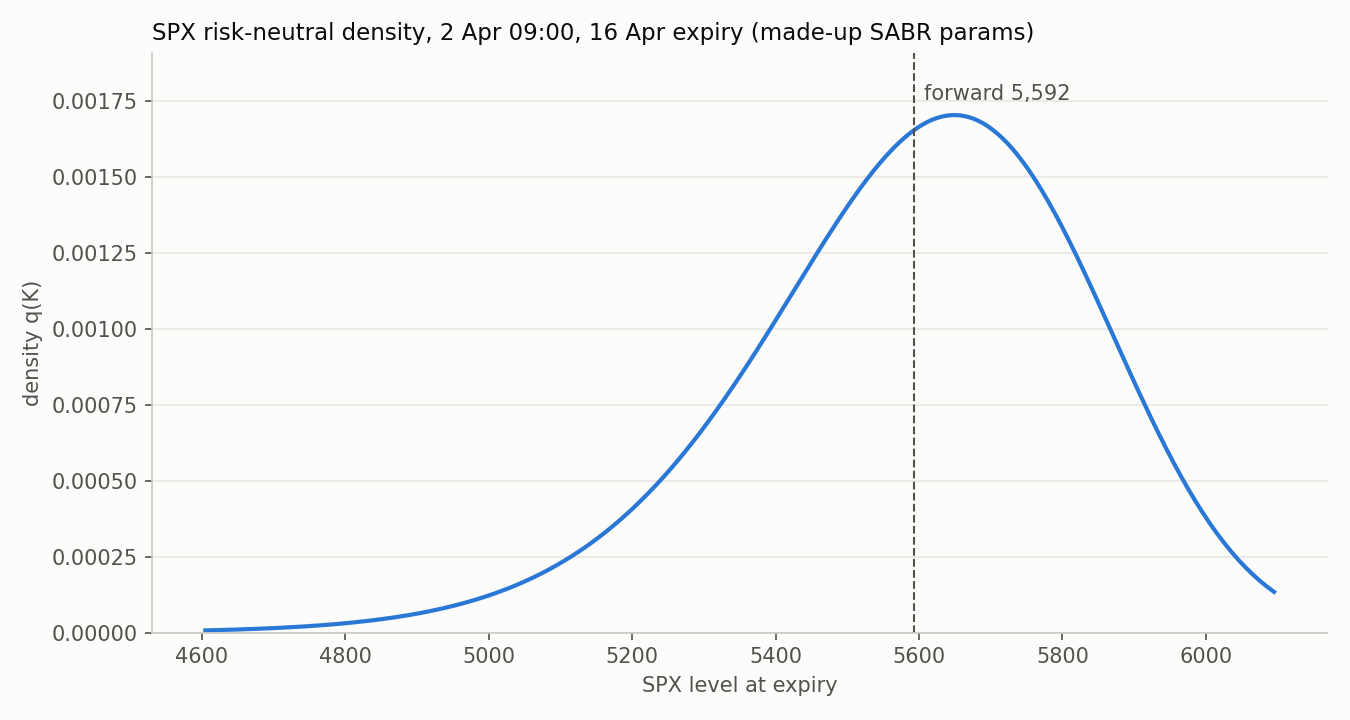
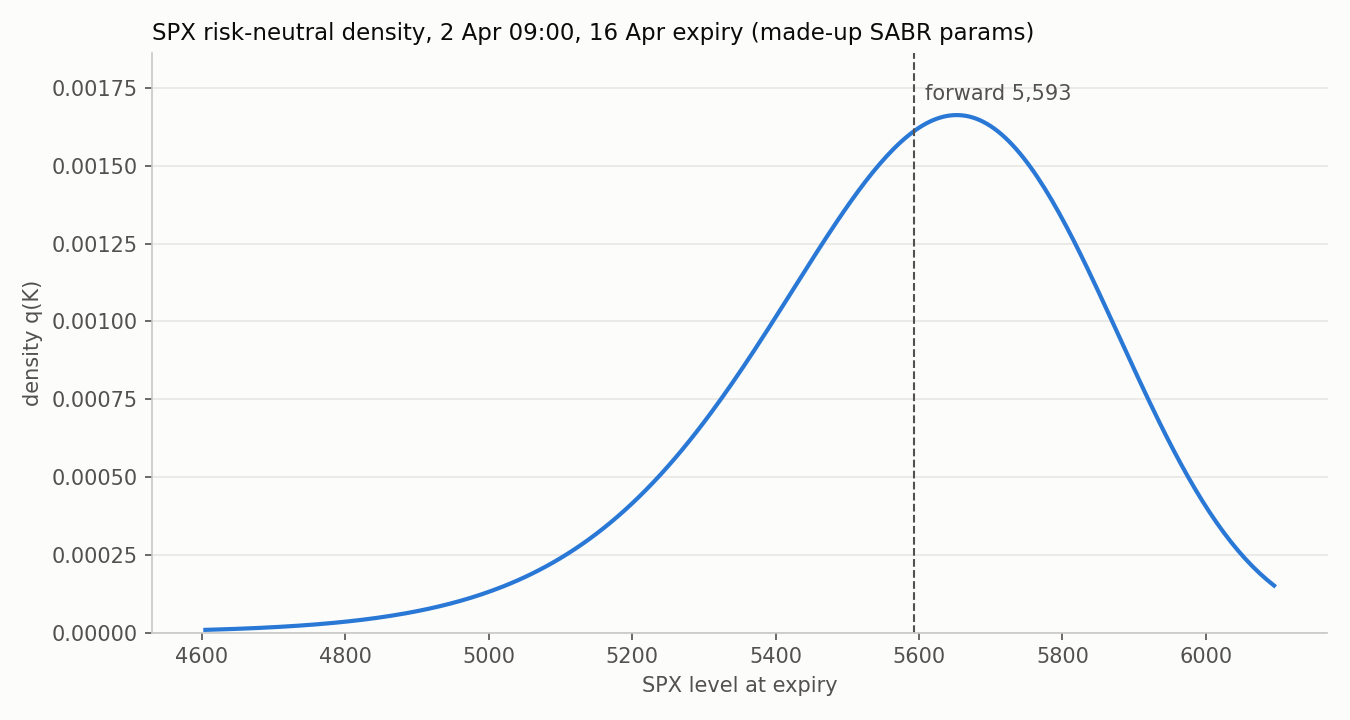
changed expiry to next day 930

diff --git a/breeden_litzenberger.py b/breeden_litzenberger.py
@@ -8,7 +8,7 @@ import pandas as pd
 
 RISK_FREE_RATE = 0.043   # TODO: replace with 1-month T-bill, early April 2025
 DIVIDEND_YIELD = 0.0
-EXPIRY_TIME = "16:00:00"
+EXPIRY_TIME = "09:30:00"
 
 def time_to_expiry(timestamp, expiry):
     """Years from the snapshot time to expiry (calendar time, ACT/365).
@@ -277,7 +277,7 @@ if __name__ == "__main__":
         sabr_params,
         assets_path="data/ETH/2025-04-01_assets.csv",
         timestamp="2025-04-02 09:00:00",
-        expiry="20250416",
+        expiry="20250417",
     )
  
     print("row used :", result["timestamp"])
